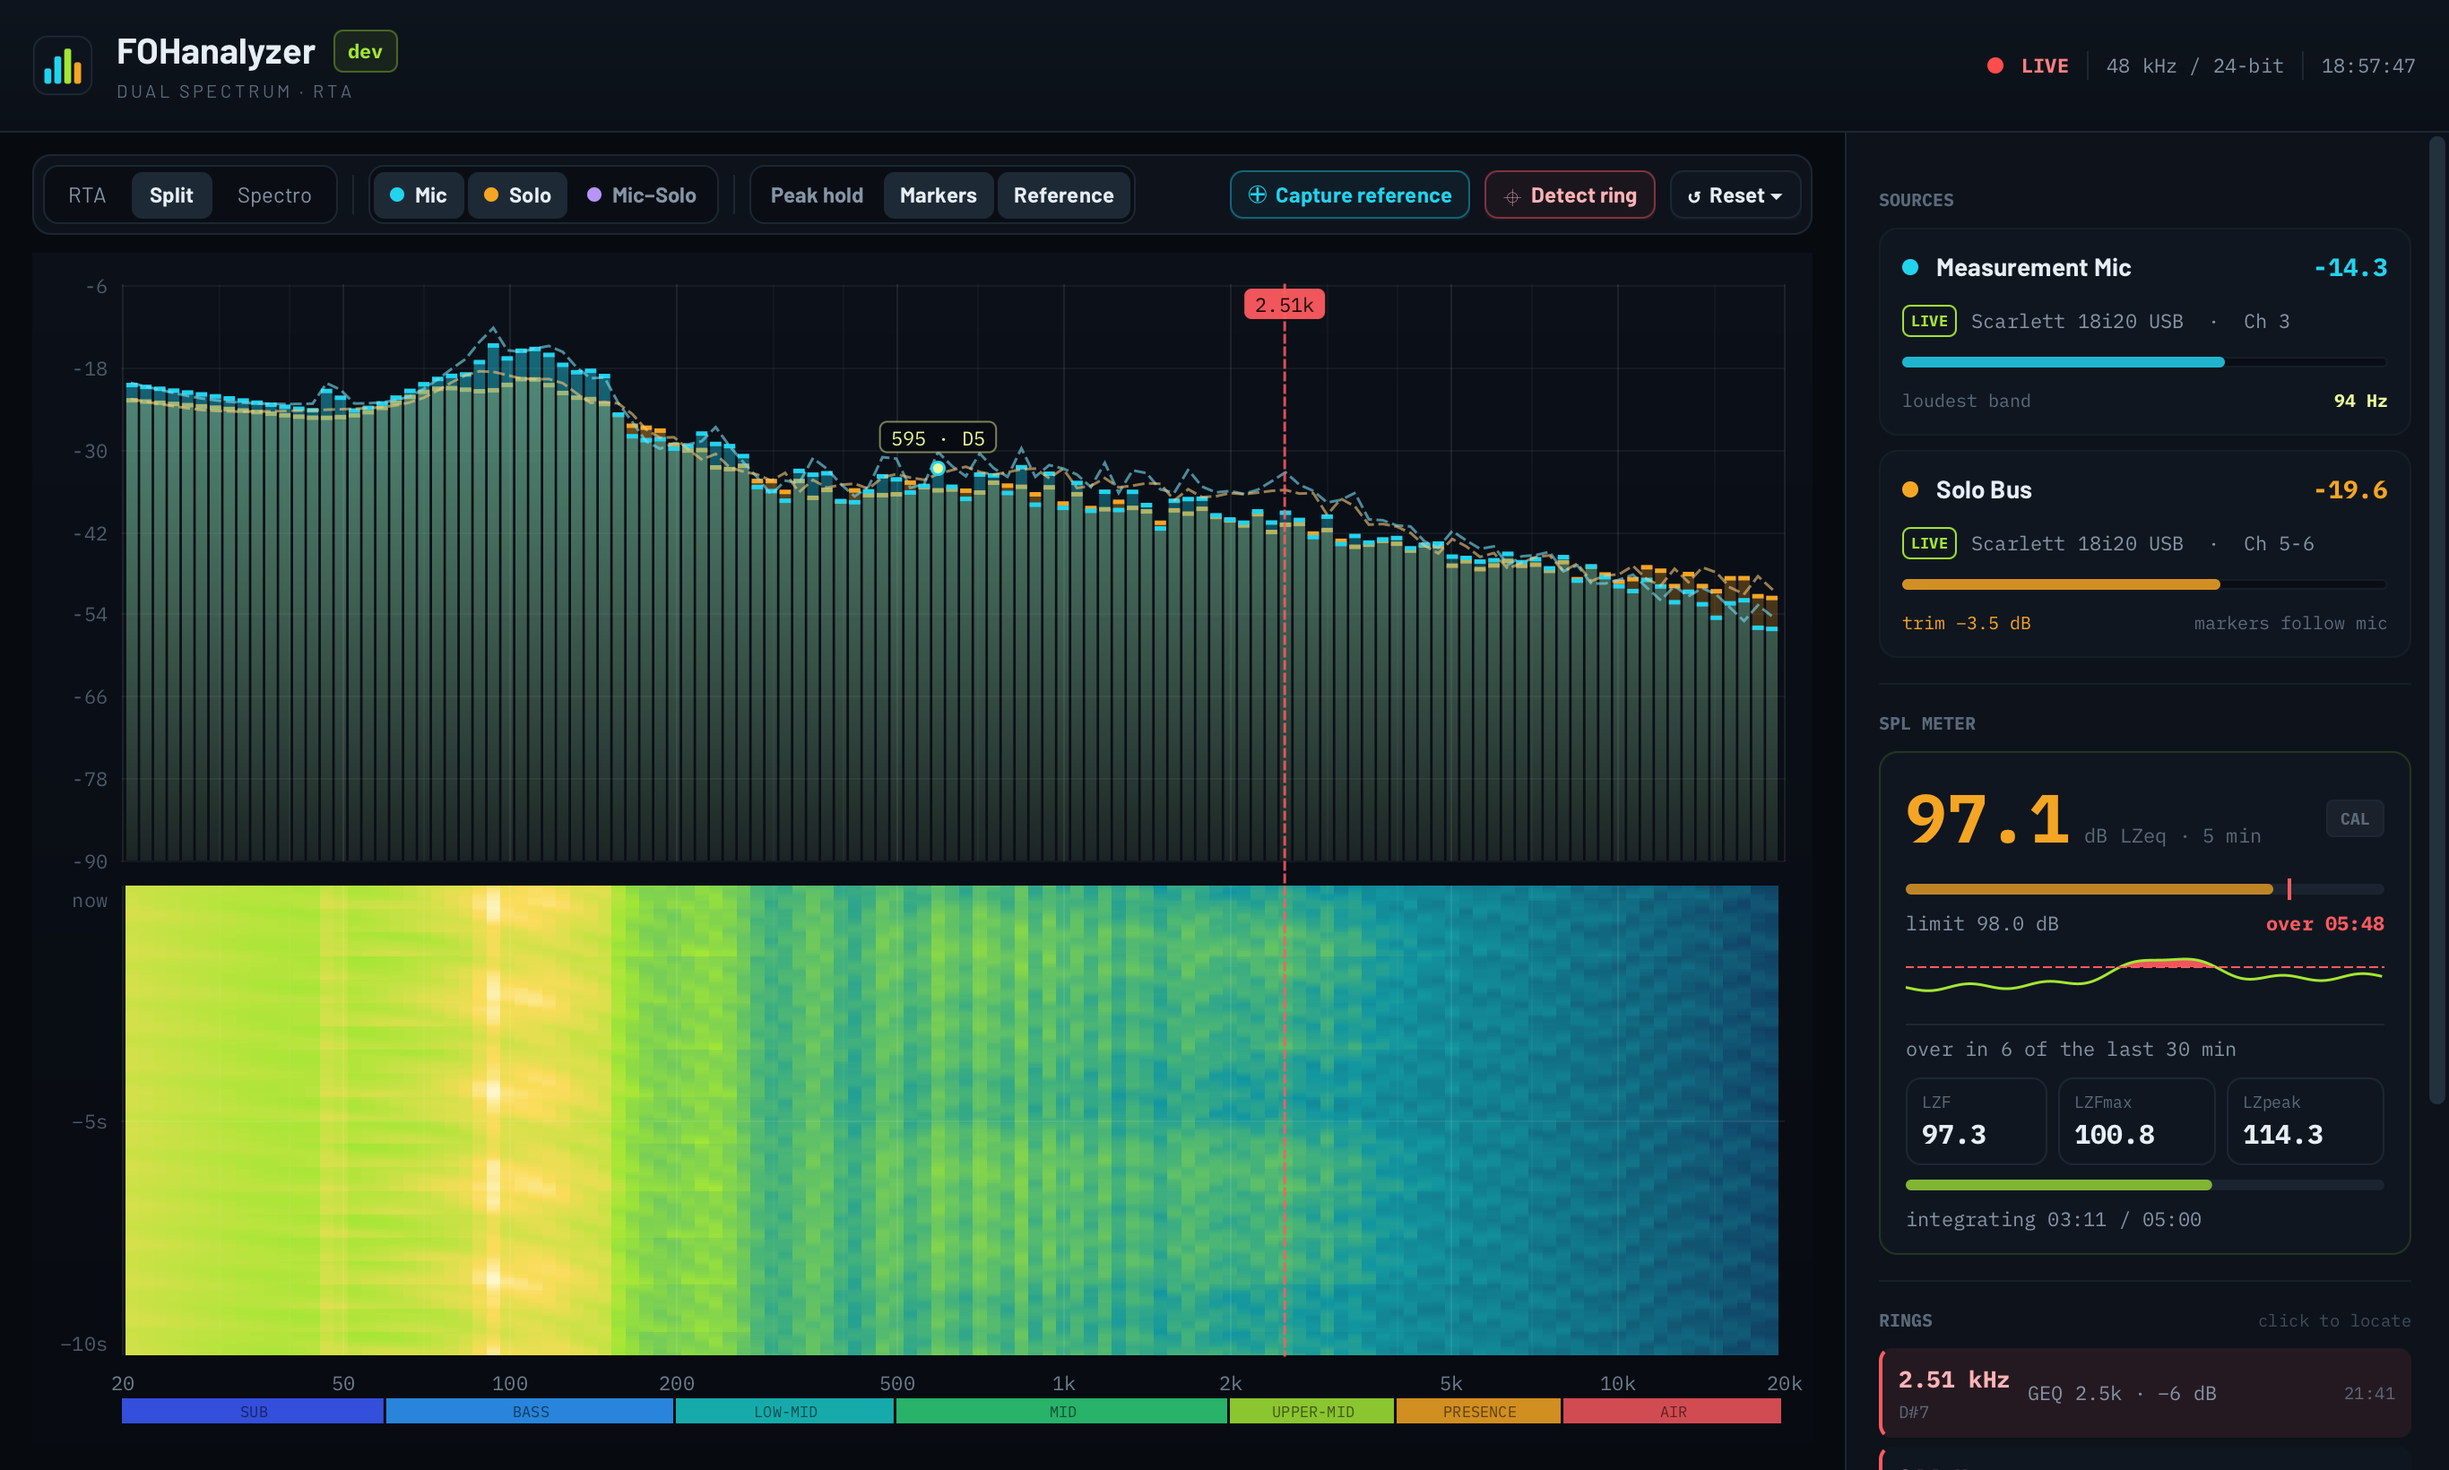
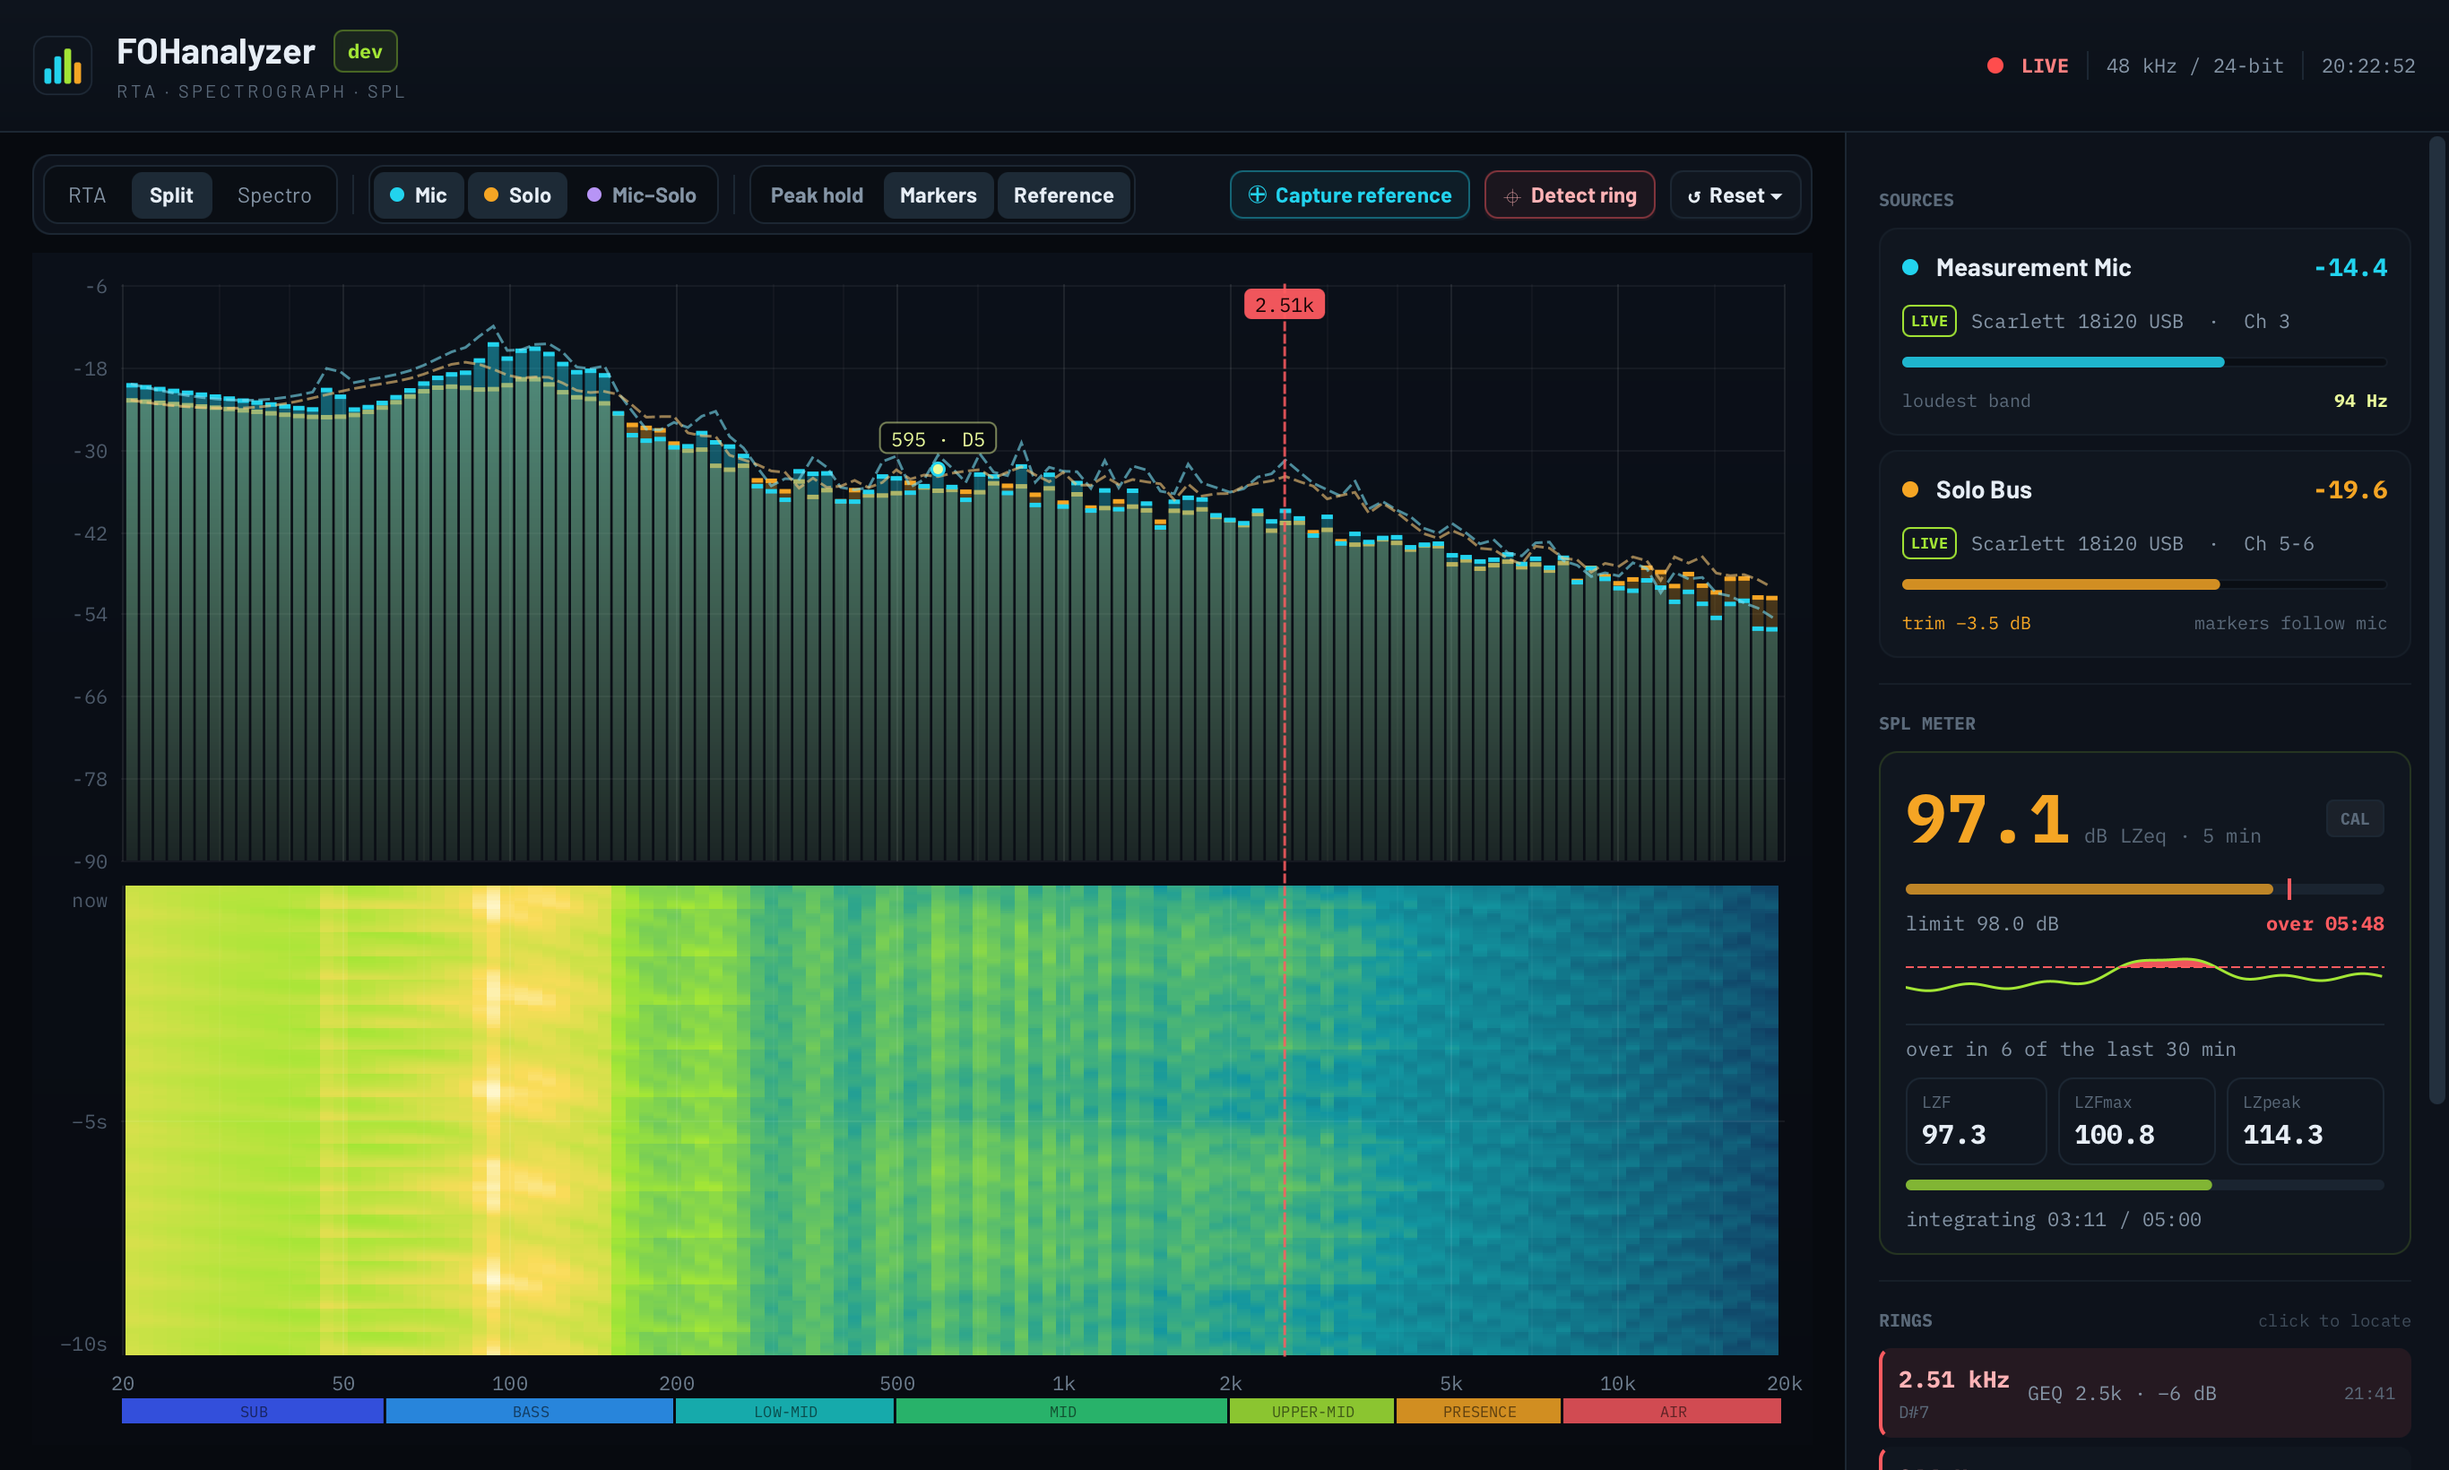
Name what the app is under its wordmark: RTA · Spectrograph · SPL
The header and the website's brand said "Dual spectrum · RTA", from
before the spectrograph and the SPL meter. They now match the link
card, and the screenshot is retaken with the new header.

Changed region(s): [[0.2489, 0.2799, 0.7156, 0.4043], [0.0622, 0.2177, 0.2489, 0.2799]]

diff --git a/website/contribute.html b/website/contribute.html
@@ -62,7 +62,7 @@
 			<img src="assets/img/logo.svg" width="34" height="34" alt="">
 			<span class="brand__marks">
 				<span class="brand__name">FOHanalyzer</span>
-				<span class="brand__sub">Dual Spectrum · RTA</span>
+				<span class="brand__sub">RTA · Spectrograph · SPL</span>
 			</span>
 		</a>
 
@@ -504,7 +504,7 @@
 					<img src="assets/img/logo.svg" width="34" height="34" alt="">
 					<span class="brand__marks">
 						<span class="brand__name">FOHanalyzer</span>
-						<span class="brand__sub">Dual Spectrum · RTA</span>
+						<span class="brand__sub">RTA · Spectrograph · SPL</span>
 					</span>
 				</a>
 				<p class="site-footer__blurb">

diff --git a/website/impressum.html b/website/impressum.html
@@ -63,7 +63,7 @@
 			<img src="assets/img/logo.svg" width="34" height="34" alt="">
 			<span class="brand__marks">
 				<span class="brand__name">FOHanalyzer</span>
-				<span class="brand__sub">Dual Spectrum · RTA</span>
+				<span class="brand__sub">RTA · Spectrograph · SPL</span>
 			</span>
 		</a>
 
@@ -272,7 +272,7 @@
 					<img src="assets/img/logo.svg" width="34" height="34" alt="">
 					<span class="brand__marks">
 						<span class="brand__name">FOHanalyzer</span>
-						<span class="brand__sub">Dual Spectrum · RTA</span>
+						<span class="brand__sub">RTA · Spectrograph · SPL</span>
 					</span>
 				</a>
 				<p class="site-footer__blurb">

diff --git a/website/index.html b/website/index.html
@@ -63,7 +63,7 @@
 			<img src="assets/img/logo.svg" width="34" height="34" alt="">
 			<span class="brand__marks">
 				<span class="brand__name">FOHanalyzer</span>
-				<span class="brand__sub">Dual Spectrum · RTA</span>
+				<span class="brand__sub">RTA · Spectrograph · SPL</span>
 			</span>
 		</a>
 
@@ -736,7 +736,7 @@
 					<img src="assets/img/logo.svg" width="34" height="34" alt="">
 					<span class="brand__marks">
 						<span class="brand__name">FOHanalyzer</span>
-						<span class="brand__sub">Dual Spectrum · RTA</span>
+						<span class="brand__sub">RTA · Spectrograph · SPL</span>
 					</span>
 				</a>
 				<p class="site-footer__blurb">

diff --git a/website/404.html b/website/404.html
@@ -61,7 +61,7 @@
 			<img src="/assets/img/logo.svg" width="34" height="34" alt="">
 			<span class="brand__marks">
 				<span class="brand__name">FOHanalyzer</span>
-				<span class="brand__sub">Dual Spectrum · RTA</span>
+				<span class="brand__sub">RTA · Spectrograph · SPL</span>
 			</span>
 		</a>
 	</div>

diff --git a/src/main/java/com/fohanalyzer/ui/MainApp.java b/src/main/java/com/fohanalyzer/ui/MainApp.java
@@ -239,7 +239,7 @@ public class MainApp extends Application
 		top.getStyleClass().add("wm-top");
 		// The website sets this line with 0.14em tracking; JavaFX has no letter
 		// spacing, so each glyph gets its own label and the box spaces them.
-		HBox sub = tracked("DUAL SPECTRUM · RTA", 1.4, "wm-sub");
+		HBox sub = tracked("RTA · SPECTROGRAPH · SPL", 1.4, "wm-sub");
 		Label ver = new Label(Version.VALUE);
 		ver.getStyleClass().add("ver-chip");
 		// Chip on the title's own line, so it sits at cap height instead of
